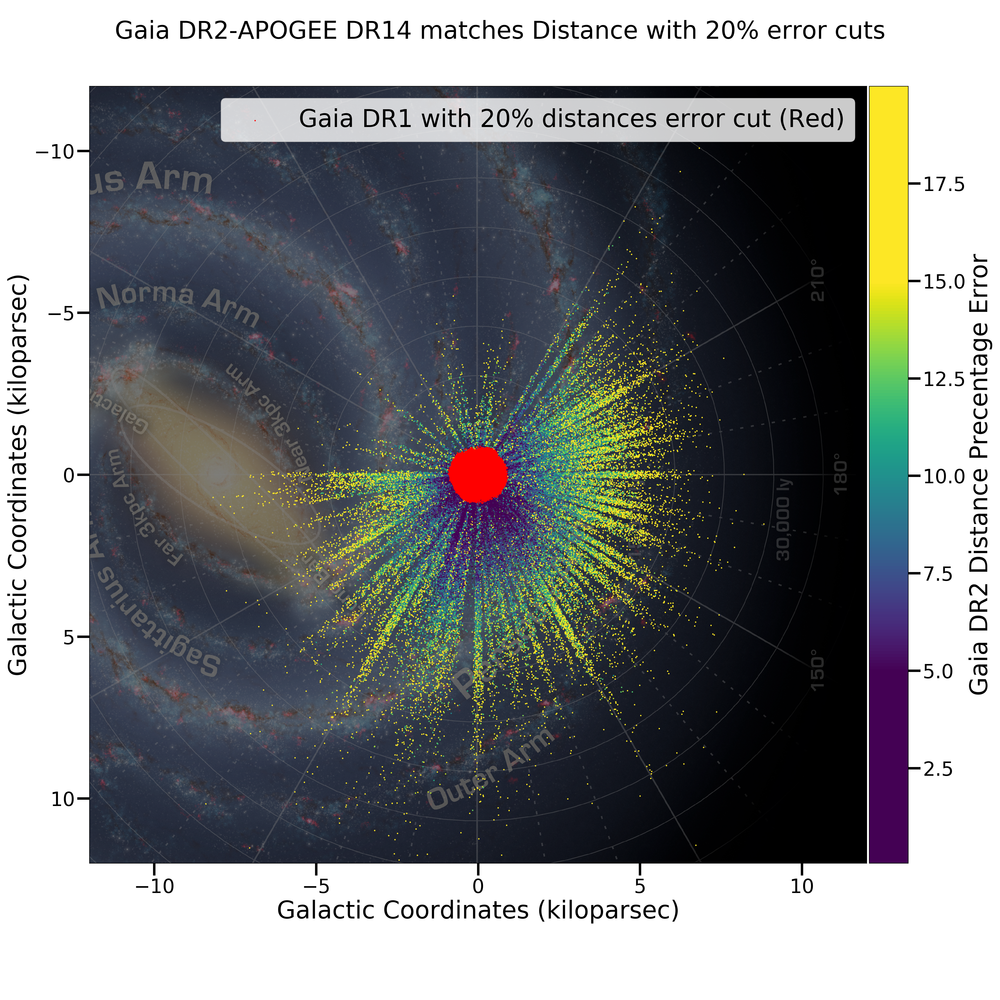
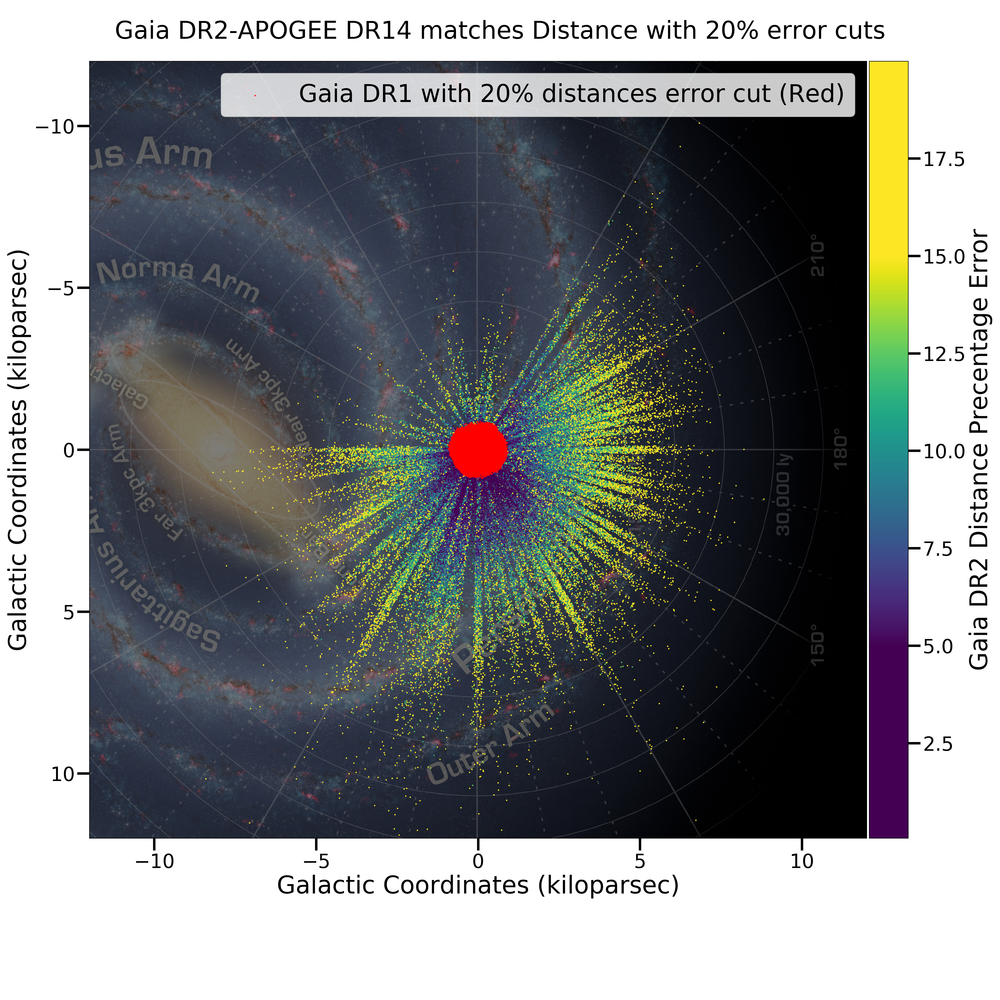
minor update example 4 code

diff --git a/README.rst b/README.rst
@@ -296,7 +296,7 @@ the milkyway is not moving.
     plot_instance.title = 'Orbit of Sun in 10Gyr using galpy'
 
     # plot, need to subtract 8kpc to shift to galactic coordinates in right hands frame
-    plot_instance.mw_scatter(x - 8. * u.kpc, y, 'r')
+    plot_instance.plot(x - 8. * u.kpc, y, c='r', linewidth=8.0)
 
     # Save the figure
     plot_instance.savefig(file='mw_plot_zoomed.png')
